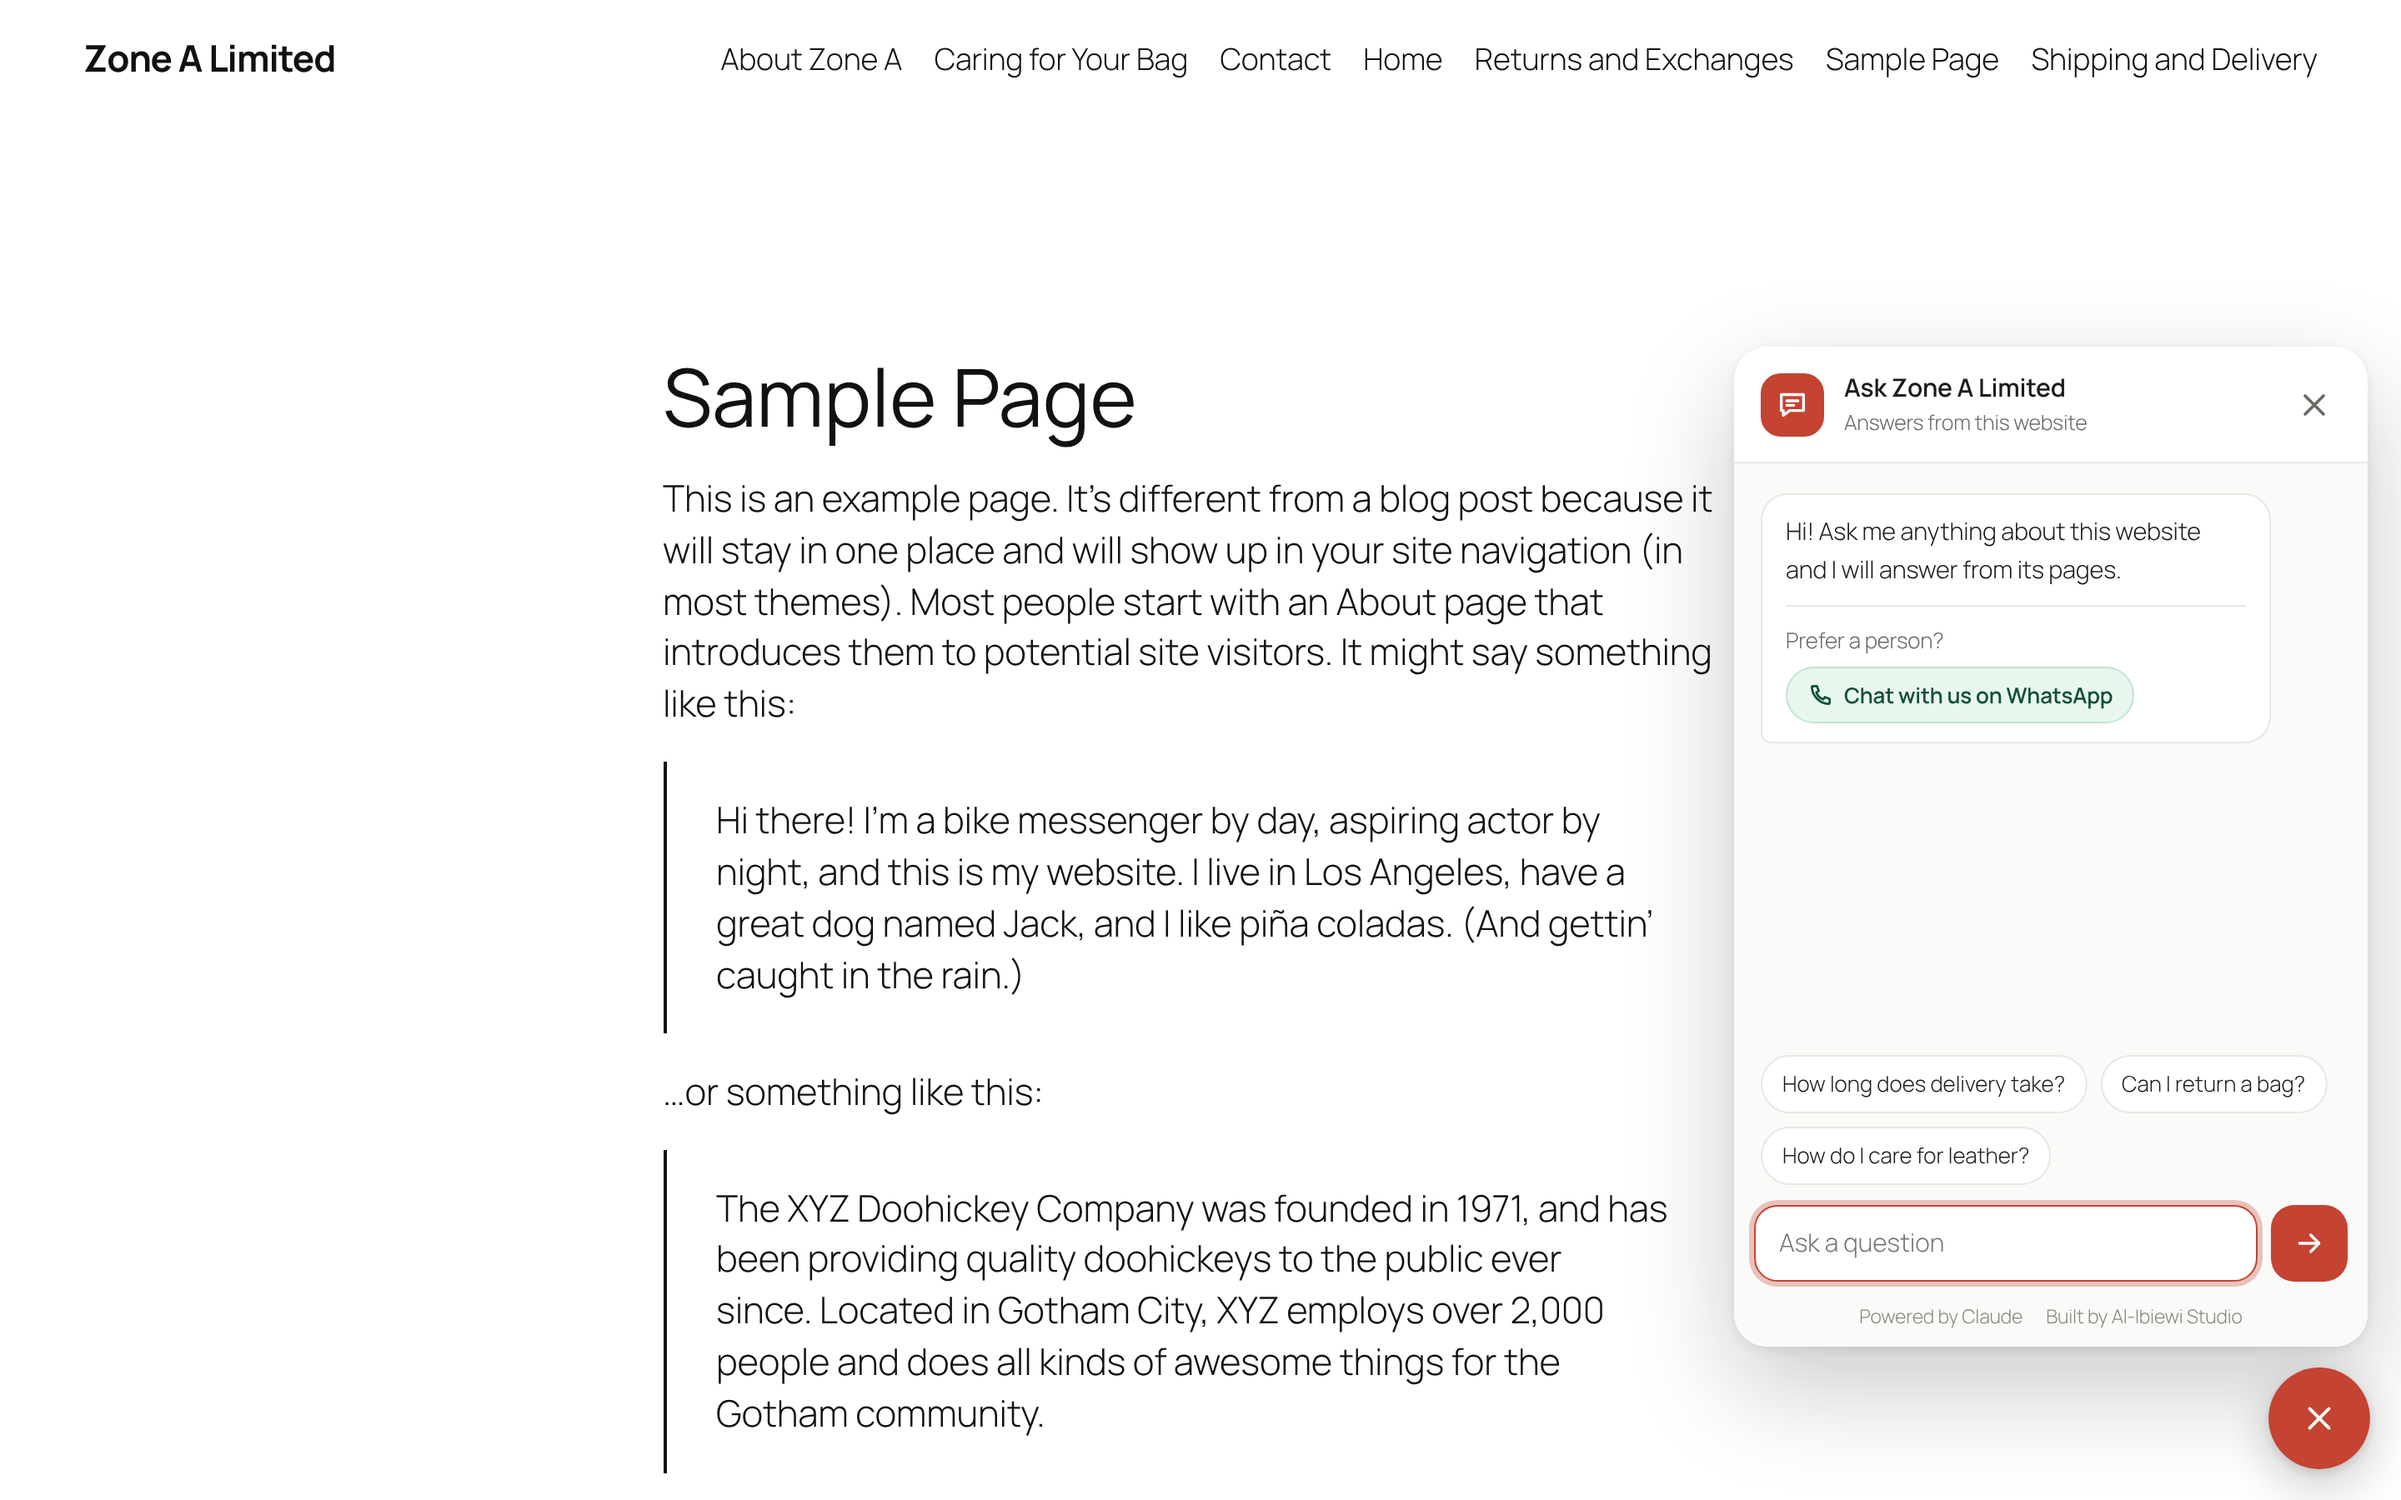
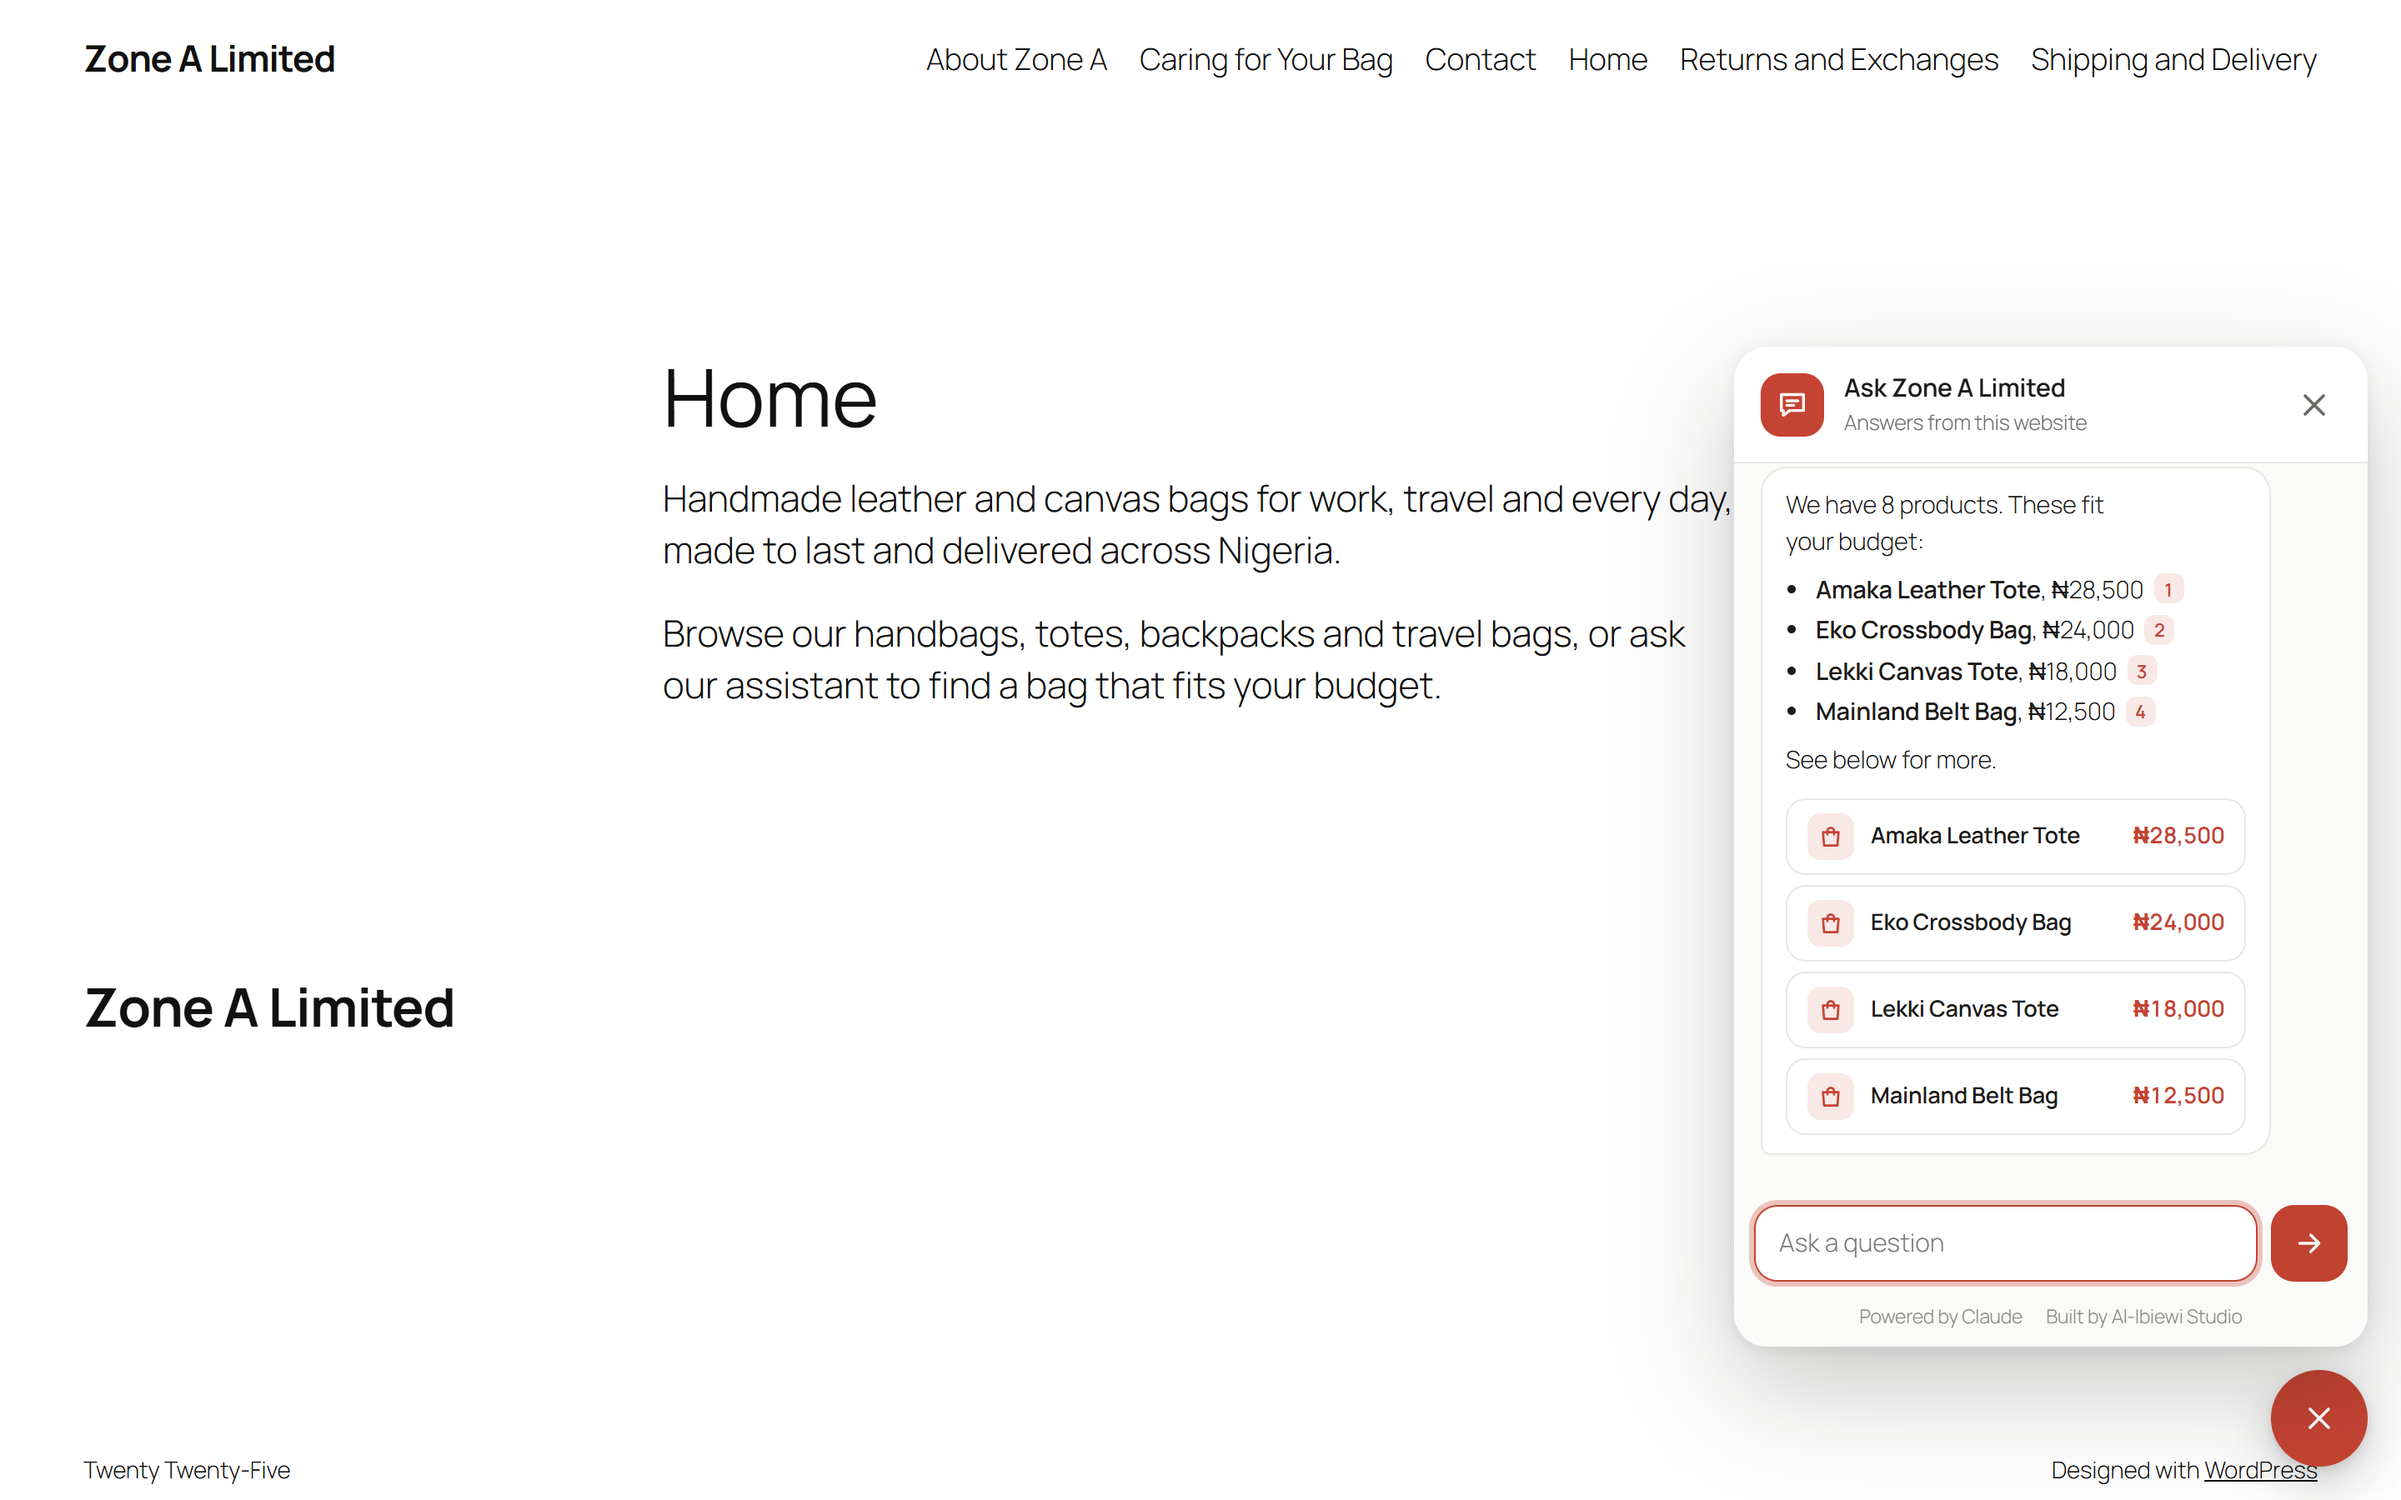
Retake the assistant screenshot for 1.5.1
Shows a budget question answered with product buttons and naira prices.
Taken at 1440x900, device scale factor 2, on a local WordPress 7.1 site
with the fake Claude and WooCommerce stand-ins.

diff --git a/docs/HANDOFF.md b/docs/HANDOFF.md
@@ -18,7 +18,7 @@ The code is on GitHub at https://github.com/al-ibiewi/studio-console (public), a
 
 ## What to do next
 
-1. **Portfolio.** The case study belongs on al-ibiewi.com.ng (the owner is doing this in a separate session). The case study draft is a Claude doc: https://claude.ai/artifact/VtZ6TKDUXXkjydXZ5azdxC. The screenshots are in `screenshots/`. `screenshots/07-assistant.png` predates the 1.5.1 buttons and could be retaken.
+1. **Portfolio.** The case study belongs on al-ibiewi.com.ng (the owner is doing this in a separate session). The case study draft is a Claude doc: https://claude.ai/artifact/VtZ6TKDUXXkjydXZ5azdxC. The screenshots are in `screenshots/`. `screenshots/07-assistant.png` was retaken for 1.5.1 and shows the product buttons (on a local site with the fake Claude stand-in, so the reply wording is the stand-in's, not Haiku's).
 
 ## Ideas not yet started (only if the owner asks)
 
